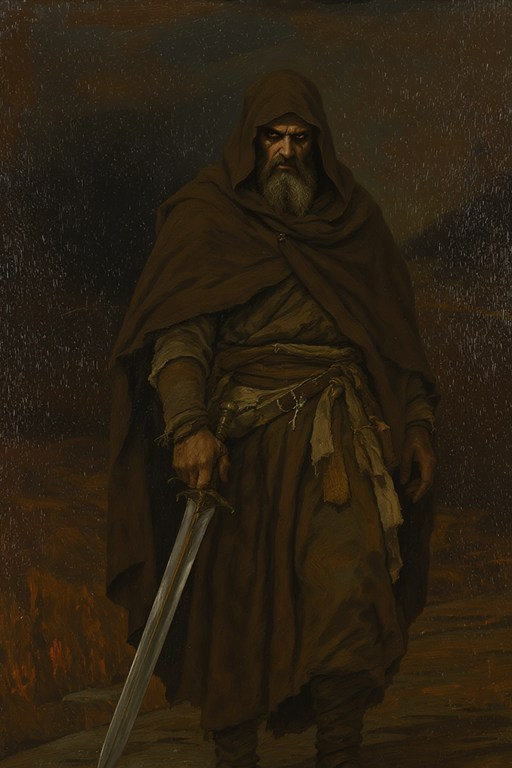
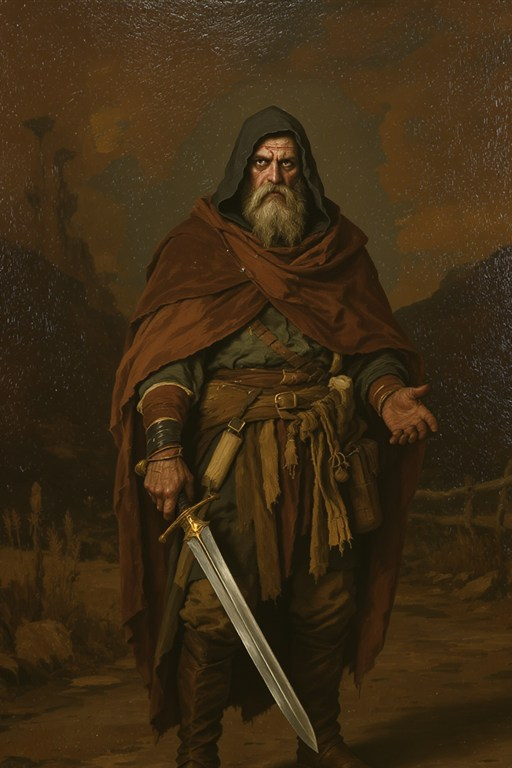
Owner's art review: 18 pictures redrawn; log text on the light parchment only
- Redraws for the gallery marks (sword grips, extra hands and fingers, the bow,
  the harpy's face, the sea serpent's one body, the mage's eyes, the thief's smile).
- A flat fantasy map (new ArtGen kind "map"); place names in ink on it, and the
  Lowford and Bear Lamp marks moved onto the drawn town.
- The gambling den and the thieves' bar get a new bg_den (they used a sewer);
  bg_sewer removed. The crossroads road now forks; the tavern is a tavern hall.
- The storyteller's book keeps all writing inside the page's light middle
  (TableView.LogW), off the burnt edges.

diff --git a/Unity/Assets/Scripts/Night/TableView.cs b/Unity/Assets/Scripts/Night/TableView.cs
@@ -64,6 +64,8 @@ namespace Tavern.Unity.Night
 
         // bots and screenshots
         int _autoTurns, _autoDone;
+        /// <summary>The width of the writing on the storyteller's page (inside its light middle).</summary>
+        const float LogW = 620;
         float _autoWait;
         readonly List<string> _walk = new List<string>();
 
@@ -242,12 +244,13 @@ namespace Tavern.Unity.Night
             var page = UiKit.Rect("Page", panel).Fill(12);
             page.SetAsFirstSibling();
             UiKit.Ground(page, "parchment", 90);
-            // a pale wash over the writing area keeps the mottled paper from fighting the small text
-            UiKit.Soft(page, new Color(0.95f, 0.89f, 0.75f, 0.55f), 40);
-            PersonCard(page, ArtLibrary.Get("pt_olwen"), 40, 14, 52, 52, Theme.FrameDim);   // the storyteller Olwen, by the book
-            UiKit.Title(page, "語り部の書", 26, Theme.InkRed, 104, 22, 260, 36).Inked();
-            _quotaText = UiKit.Label(page, "", 14, Theme.InkBrown, 280, 30, 430, 24, align: TextAnchor.UpperRight).Inked();
-            _log = UiKit.Scroll(page, 40, 72, 680, 870, out _logScroll, spacing: 12);
+            // a pale wash over the writing area keeps the mottled paper from fighting the small text; all writing stays on its
+            // flat light middle (from 60 px in), off the darker burnt edges (owner 2026-10-25)
+            UiKit.Soft(page, new Color(0.95f, 0.89f, 0.75f, 0.55f), 26, fade: 34);
+            PersonCard(page, ArtLibrary.Get("pt_olwen"), 64, 62, 48, 48, Theme.FrameDim);   // the storyteller Olwen, by the book
+            UiKit.Title(page, "語り部の書", 26, Theme.InkRed, 124, 68, 240, 36).Inked();
+            _quotaText = UiKit.Label(page, "", 14, Theme.InkBrown, 330, 78, 354, 24, align: TextAnchor.UpperRight).Inked();
+            _log = UiKit.Scroll(page, 64, 122, LogW, 776, out _logScroll, spacing: 12);
             var click = panel.gameObject.AddComponent<Button>();
             click.transition = Selectable.Transition.None;
             click.onClick.AddListener(FinishTyping);
@@ -640,7 +643,7 @@ namespace Tavern.Unity.Night
                 UiKit.Label(_log, who, Reading.Font(14), Theme.InkRed, serif: true).Inked();
                 _typing = UiKit.Label(_log, "", Reading.Font(21), Theme.InkDark, serif: true).Inked();
                 _typing.lineSpacing = 1.25f;
-                _typingFull = UiKit.Kinsoku(text, Theme.Serif, Reading.Font(21), FontStyle.Normal, 676);
+                _typingFull = UiKit.Kinsoku(text, Theme.Serif, Reading.Font(21), FontStyle.Normal, LogW - 4);
                 _typing.horizontalOverflow = HorizontalWrapMode.Overflow;
                 _typingPos = 0;
                 if (narration) AudioDirector.Play("page", 0.5f);

diff --git a/Tools/ArtGen/Program.cs b/Tools/ArtGen/Program.cs
@@ -101,6 +101,11 @@ static class Style
         "ui" => $"Subject: {subject} Style: a hand-painted interface element for a dark fantasy computer role-playing game, in the manner of classic painted RPG interfaces: " +
                 "aged gold, bronze, dark leather and parchment, fine engraving, soft painted highlights, rich but restrained. Flat front view, perfectly symmetrical, " +
                 $"centred, isolated on a plain pure black background, nothing else in the picture. {NoText}",
+        // the region map came out as a tilted relief with tall cliffs (owner 2026-10-25: more like a fantasy map): flat, inked, from above
+        "map" => $"Subject: {subject} Style: a hand-drawn fantasy map in the tradition of the maps printed at the front of classic fantasy novels: " +
+                 "drawn completely flat from directly above like a page in a book, fine pen-and-ink linework with soft muted watercolour washes on aged parchment; " +
+                 "mountains, hills, forests and towns drawn as small inked pictograms, the sea shown with gentle wave lines and hatching along the coastline, " +
+                 $"land and sea lying on the same flat page with no relief, no cliffs, no perspective and no three-dimensional terrain. {NoText}",
         "creature" => $"Subject: {subject} Style: {Bible} The creature is fully visible and centred, nothing important touches the edges. {Anatomy} {NoText}",
         "card" => $"Subject: {subject} Style: {Bible} The effect itself is the main subject, centred; any figure is secondary or seen from behind. {Anatomy} {NoText}",
         _ => $"Subject: {subject} Style: {Bible} The figure is centred with the face clearly lit. {Anatomy} {NoText}",

diff --git a/Unity/Assets/Scripts/Night/MapView.cs b/Unity/Assets/Scripts/Night/MapView.cs
@@ -57,8 +57,11 @@ namespace Tavern.Unity.Night
                 var dot = UiKit.Box(root, "Spot", stories.Count > 0 ? Theme.Gold : Theme.Hex("d8c8a4"));
                 dot.rectTransform.Place(x - 9, y - 9, 18, 18);
                 var nameW = Mathf.Min(300, r.Name.Length * 18 + 16);
-                var name = UiKit.Label(root, r.Name, stories.Count > 0 ? 18 : 15, stories.Count > 0 ? Theme.GoldLight : Theme.Hex("efe3c8"), x - 150, y + 12, 300, 44, align: TextAnchor.UpperCenter);
-                name.gameObject.AddComponent<Outline>().effectColor = new Color(0, 0, 0, 0.9f);
+                // the map is a light inked page (2026-10-25): names in ink with a parchment halo
+                var name = UiKit.Label(root, r.Name, stories.Count > 0 ? 18 : 15, stories.Count > 0 ? Theme.InkRed : Theme.InkDark, x - 150, y + 12, 300, 44, align: TextAnchor.UpperCenter).Inked();
+                var halo = name.gameObject.AddComponent<Outline>();
+                halo.effectColor = new Color(0.94f, 0.89f, 0.76f, 0.95f);
+                halo.effectDistance = new Vector2(2, -2);
                 taken.Add(new Rect(x - nameW / 2f, y - 10, nameW, 50));
             }
             foreach (var (r, stories, x, y) in spots)

diff --git a/Unity/Assets/Scripts/Ui/Ui.cs b/Unity/Assets/Scripts/Ui/Ui.cs
@@ -247,7 +247,7 @@ namespace Tavern.Unity.Ui
 
         static Sprite? _soft;
         /// <summary>A pale patch whose edges fade out (no hard rectangle), e.g. to calm a texture under small text.</summary>
-        public static Image Soft(Transform parent, Color color, float inset = 0)
+        public static Image Soft(Transform parent, Color color, float inset = 0, float fade = 65)
         {
             if (_soft == null)
             {
@@ -265,7 +265,7 @@ namespace Tavern.Unity.Ui
             var img = Rect("Soft", parent).Fill(inset).gameObject.AddComponent<Image>();
             img.sprite = _soft;
             img.type = Image.Type.Sliced;
-            img.pixelsPerUnitMultiplier = 0.4f;   // the fade spans about 65 px on screen
+            img.pixelsPerUnitMultiplier = 26f / fade;   // the fade spans `fade` px on screen
             img.color = color;
             img.raycastTarget = false;
             return img;

diff --git a/Docs/art/generation-log.md b/Docs/art/generation-log.md
@@ -8,3 +8,4 @@
 | 2026-10-24 | 段 5 の足りない絵: 地方の地図（文字なし）・リナの母ヘレン・若者リナ × 2 案（`Tools/ArtGen/jobs/stage5.json`） | fal.ai Kontext Pro | 6 | 約 0.24 ドル | 3 枚とも 1 案目（2 案目は地図に偽の文字、立ち絵に署名のような跡）。地図は斜めの俯瞰になったが雰囲気は合う |
 | 2026-10-24 | 段 7 の足りない絵: 新しい敵（衛兵・衛兵隊長・暗殺者）× 2 案（暗殺者は署名の跡で 2 案を追加）、物語の人物に合う立ち絵 12 人 × 3 案（`Tools/ArtGen/jobs/stage7.json`） | fal.ai Kontext Pro | 44 | 約 1.76 ドル | 選んだ案: 衛兵 1・衛兵隊長 1・暗殺者 3・傭兵（男）3・役人 1・毛皮商人 1・吟遊詩人 1・女魔術師 1・助祭 3・女鍛冶 1・宿の主人 1・老婆 1・墓守 1・捕まった賊 1・盗賊ギルドの女 1。44 枚のうち 13 枚に署名のような跡（右下・左下）があり、下の端を拡大して確かめて外した |
 | 2026-10-24 | 仮絵の描き直し（`Tools/ArtGen/jobs/redraw.json`、73 件 × 2 案。途中で残高切れ → オーナーが 10 ドル入金して再開） | fal.ai Kontext Pro | 約 150（失敗 6 を含む）＋場所の絵の試し 4 ＋白い飛竜ほか 6 | 約 6.4 ドル | 敵 22・冒険者 8・立ち絵 15 を差し替え。どれも下の端に署名のような走り書きが多く出たので、取り込みで下を 11% 切った（`import --trim-bottom 0.11`）。飛竜は「白牙」に合わせて白で描き直した。**場所の絵 28 枚は差し替えない**: 共通の画風（くすんだ色・暗い縁・画布の質感）で場所を描くと、どれも暗い茶色の靄になり、今の絵より見劣りした。場所だけ明るい画風（`Style.SceneBible`）も試したが、まだ今の絵に及ばない。船倉は 2 案とも検閲で止まった |
+| 2026-10-25 | オーナーの検品（挿絵帳の印 18 枚）の直し（`Tools/ArtGen/jobs/review1.json`・`review2.json`）。人物と敵 3 案、場所 2 案、地図 3 案。2 回目は地図・ハーピー・女戦士の 3 件 × 3 案（女戦士は 1 回検閲で止まり、言い換えて通った） | fal.ai Kontext Pro | 51 ＋ 9（止められた 3 を除く） | 約 2.4 ドル | 選んだ案: 地図 21（2 回目。ほかの 5 案はどれも偽の地名が入った）・分かれ道 12・隠れ賭場 11（新しい `bg_den`。賭場と隠れ酒場が下水道の絵だったので）・酒場 11・動く甲冑 12・山賊 12・骨の騎士 12・ゴブリン 12・衛兵隊長 12・ハーピー 22（2 回目。1 回目は 3 案とも鳥の頭）・大蛇 12・トロル 13・魔女 13・魔法使い女 12・盗賊男 12・戦士女 25（2 回目。1 回目は 3 案とも刃を握っていた）・戦士男 13・猟師 11。剣は「柄を握る手が鍔の下」「盾と反対の手」を書くと直った。人物と敵は下を 11% 切って取り込み |

diff --git a/Docs/DevLog.md b/Docs/DevLog.md
@@ -9,6 +9,11 @@
 - **語り部の AI を選べるようにした**（オーナー要望）: タイトルの設定で「無料枠／有料キー」と、有料なら「Flash-Lite／Flash／Pro」（`09_Spec` の 13）。
   あとから卓の設定でも替えられるようにした（試遊で見比べる）。卓の上に直前の語りを答えたモデルが出る。試験は `-autoplay 3 -switchai 1`（1 手目のあとに有料・Flash へ）。
   仕分けはいつも Flash-Lite のまま、変わるのは語りだけ。有料キー・Flash で exe を 2 手動かし、語りが Flash で出ることを確かめた（5 回の呼び出し）。Pro は API の応答だけ確認。
+- **絵の検品の直し**（オーナーが挿絵帳で印を付けた 18 枚、`art/generation-log.md`）: 剣の握り・手の数・指・弓・地図（平らな
+  ファンタジーの地図、新しい種類 `map`）・分かれ道・酒場の広間を描き直した。賭場と隠れ酒場は下水道の絵だったので、新しい `bg_den`（地下の
+  隠れ賭場）にした（`bg_sewer` は消した）。地図が明るくなったので地名はインクの色、ロウフォードと熊の灯の印を町の絵に合わせて動かした。
+  挿絵帳は 2 回目の検品用に、前回の絵と新しい絵を並べ、印は `requests2` に付け直す形にした（前回の印は `requests` に残っている）。
+- **語り部の書の文字は羊皮紙の明るい部分だけに**（オーナー指摘）: 縁の焦げた色の上に文字を重ねない（幅 620、`TableView.LogW`）。
 - **片付け**: 使っていないカードの絵 `cd_*` 32 枚を消した（ビルドが 16 MB 軽くなった）。
 - **撮影用の起動オプション**: `-showhelp -showroster -showchronicle -showwall -showhandouts -showrequests -showsettings -showending -showfight -holdopening`、
   AI の試験用に `-paidkey -aimodel 0〜2`。撮影は `Logs/scr/shots.sh <出力先> 名前:"オプション" …`（無音）。

diff --git a/Docs/art/style-guide.md b/Docs/art/style-guide.md
@@ -24,6 +24,7 @@
 | 種類 | `kind` | 縦横 | 決まり |
 |---|---|---|---|
 | 場所の背景 | `scene` | 16:9 | 人物を描かない（「An empty scene with no figures.」）。画面の中央下は敵や NPC の立ち絵が重なるので、主な見どころは奥と左右に |
+| 地方の地図 | `map` | 16:9 | 小説の巻頭の地図のように、真上から平らに描いたペン画と淡い水彩。山や森は小さな記号で、崖や立体の起伏を描かない。偽の地名がよく入るので「文字のない絵だけの地図」と念を押し、検品で必ず確かめる |
 | 立ち絵（語り部・NPC） | `portrait` | 2:3 | 腰上か全身。顔に光を当てる。背景は暗く柔らかく（ゲームでは場面の背景に重ねる） |
 | 敵 | `creature` | 2:3 | 全身が画面に収まり、端に触れない |
 | 技のカード | `card` | 2:3 | 効果の一瞬を描く（炎・光・剣の軌跡）。人物は脇役か後ろ姿 |
